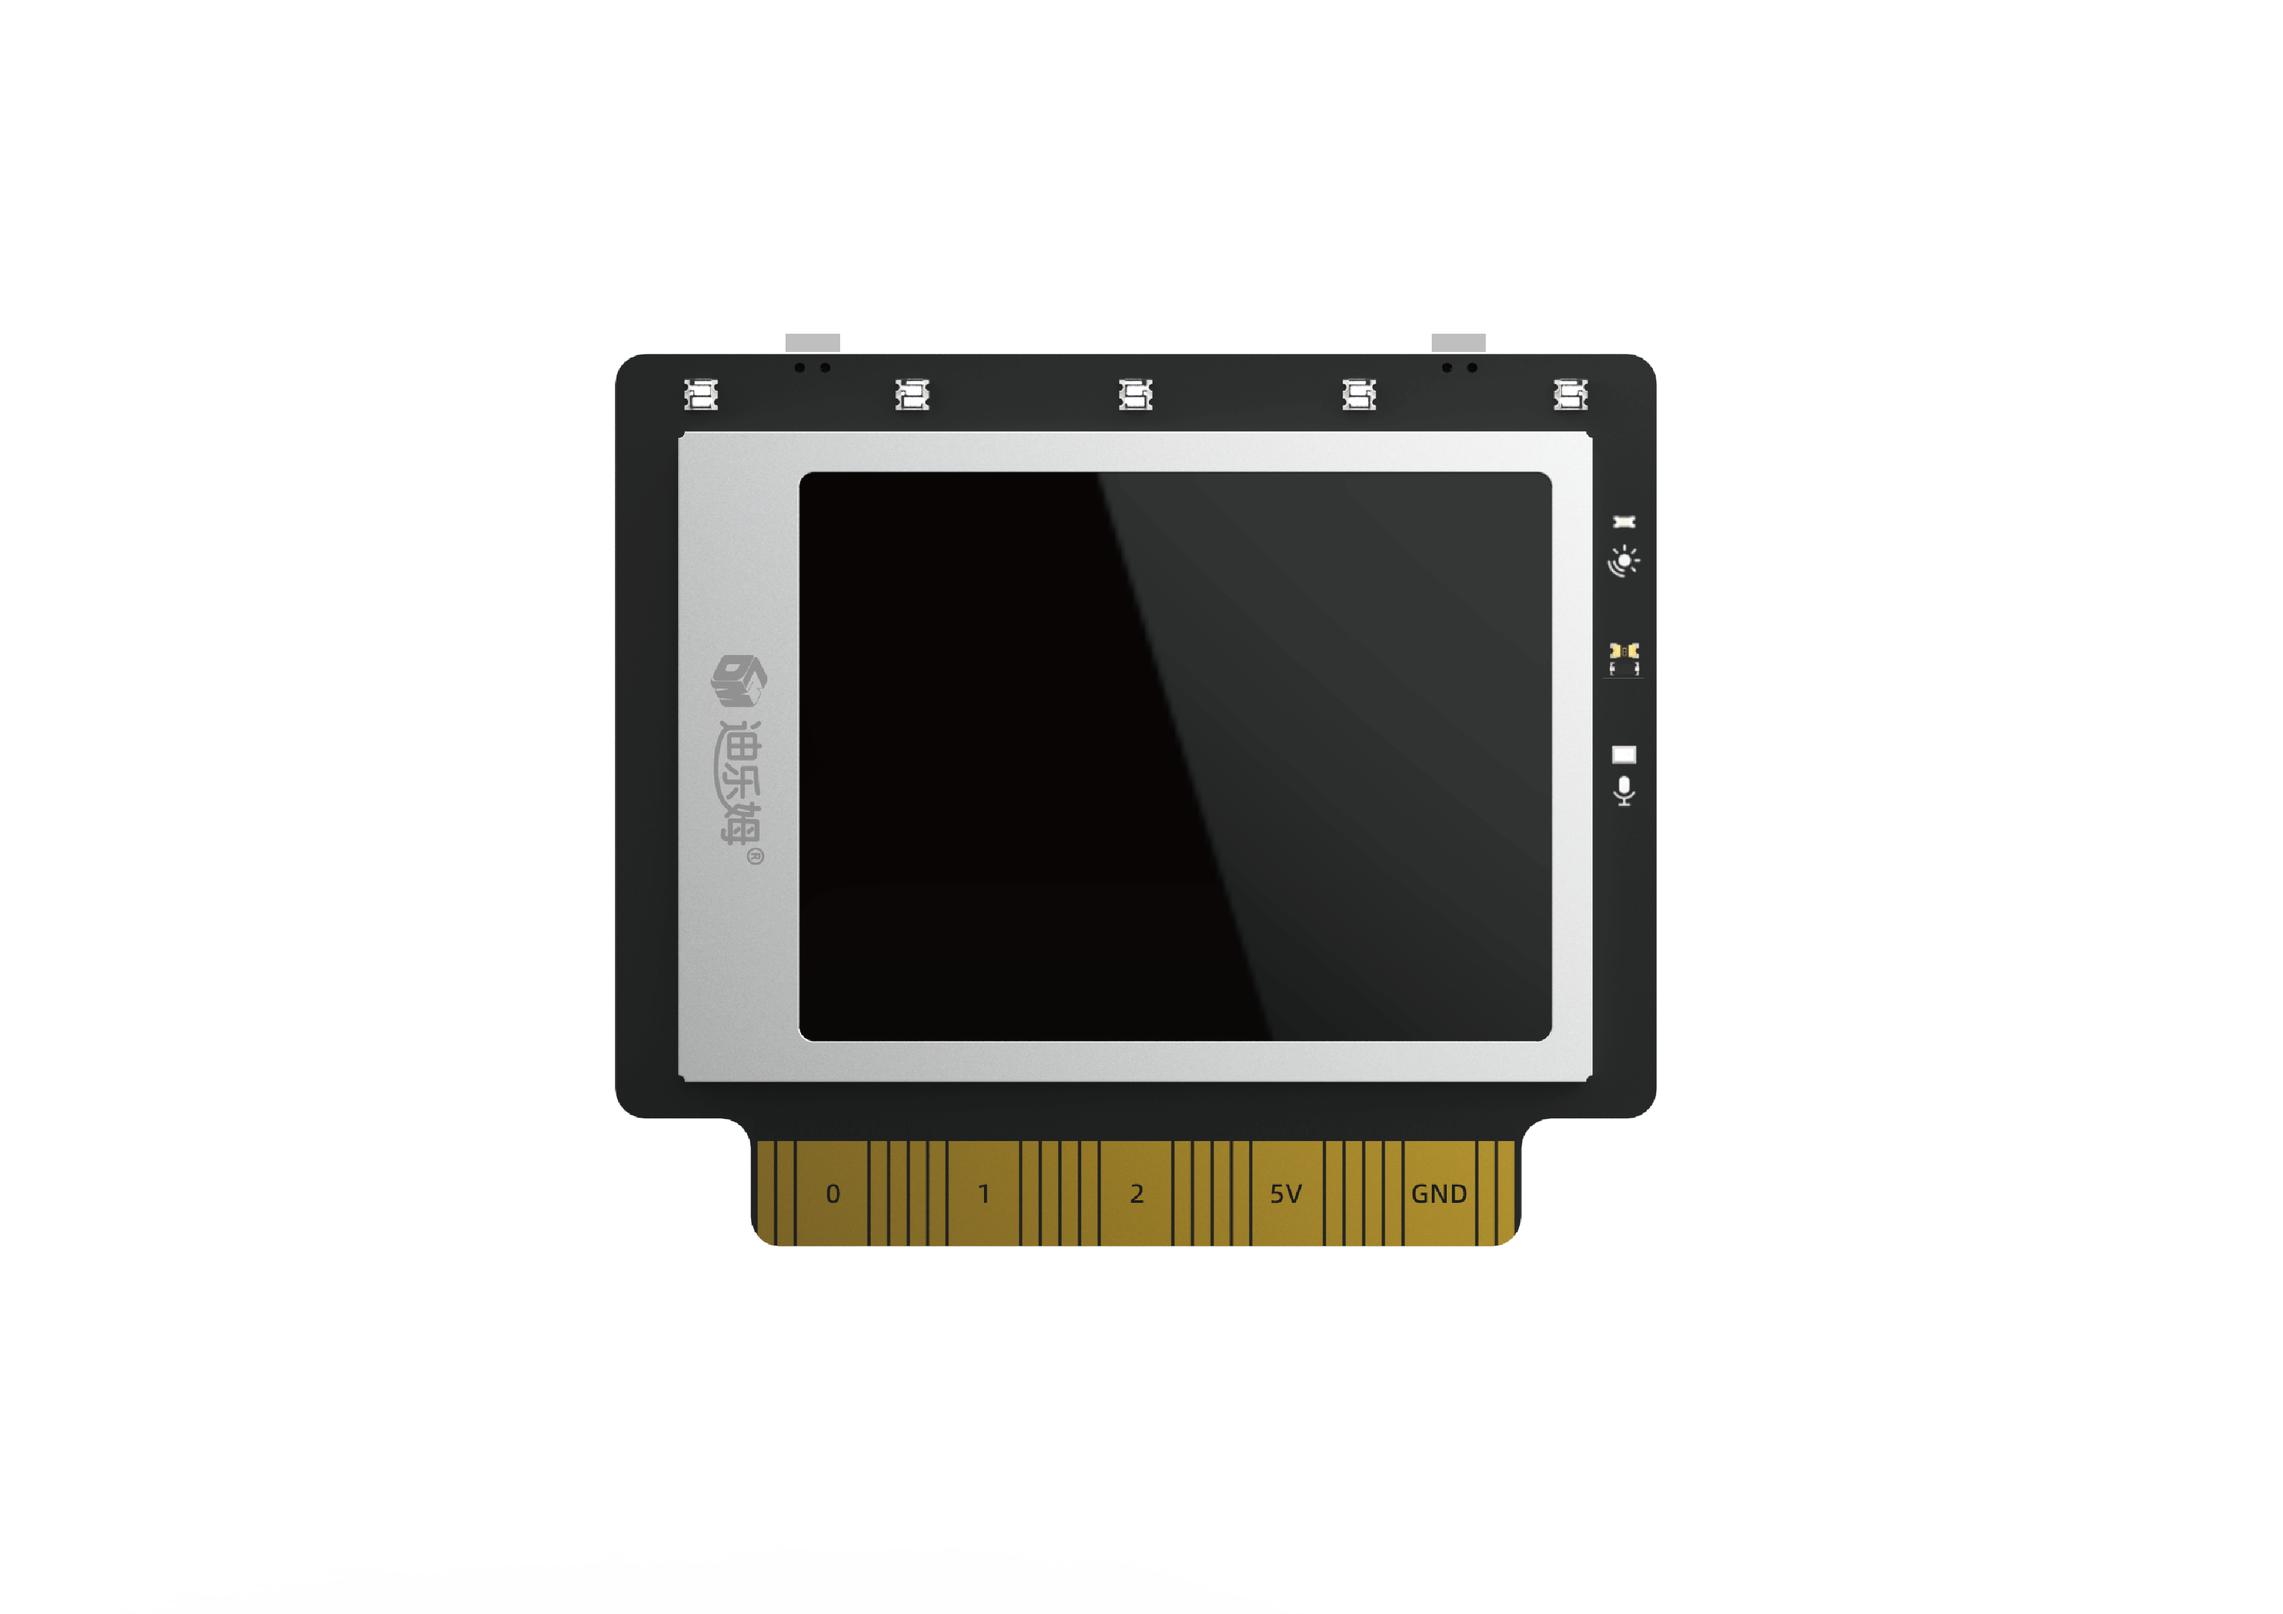
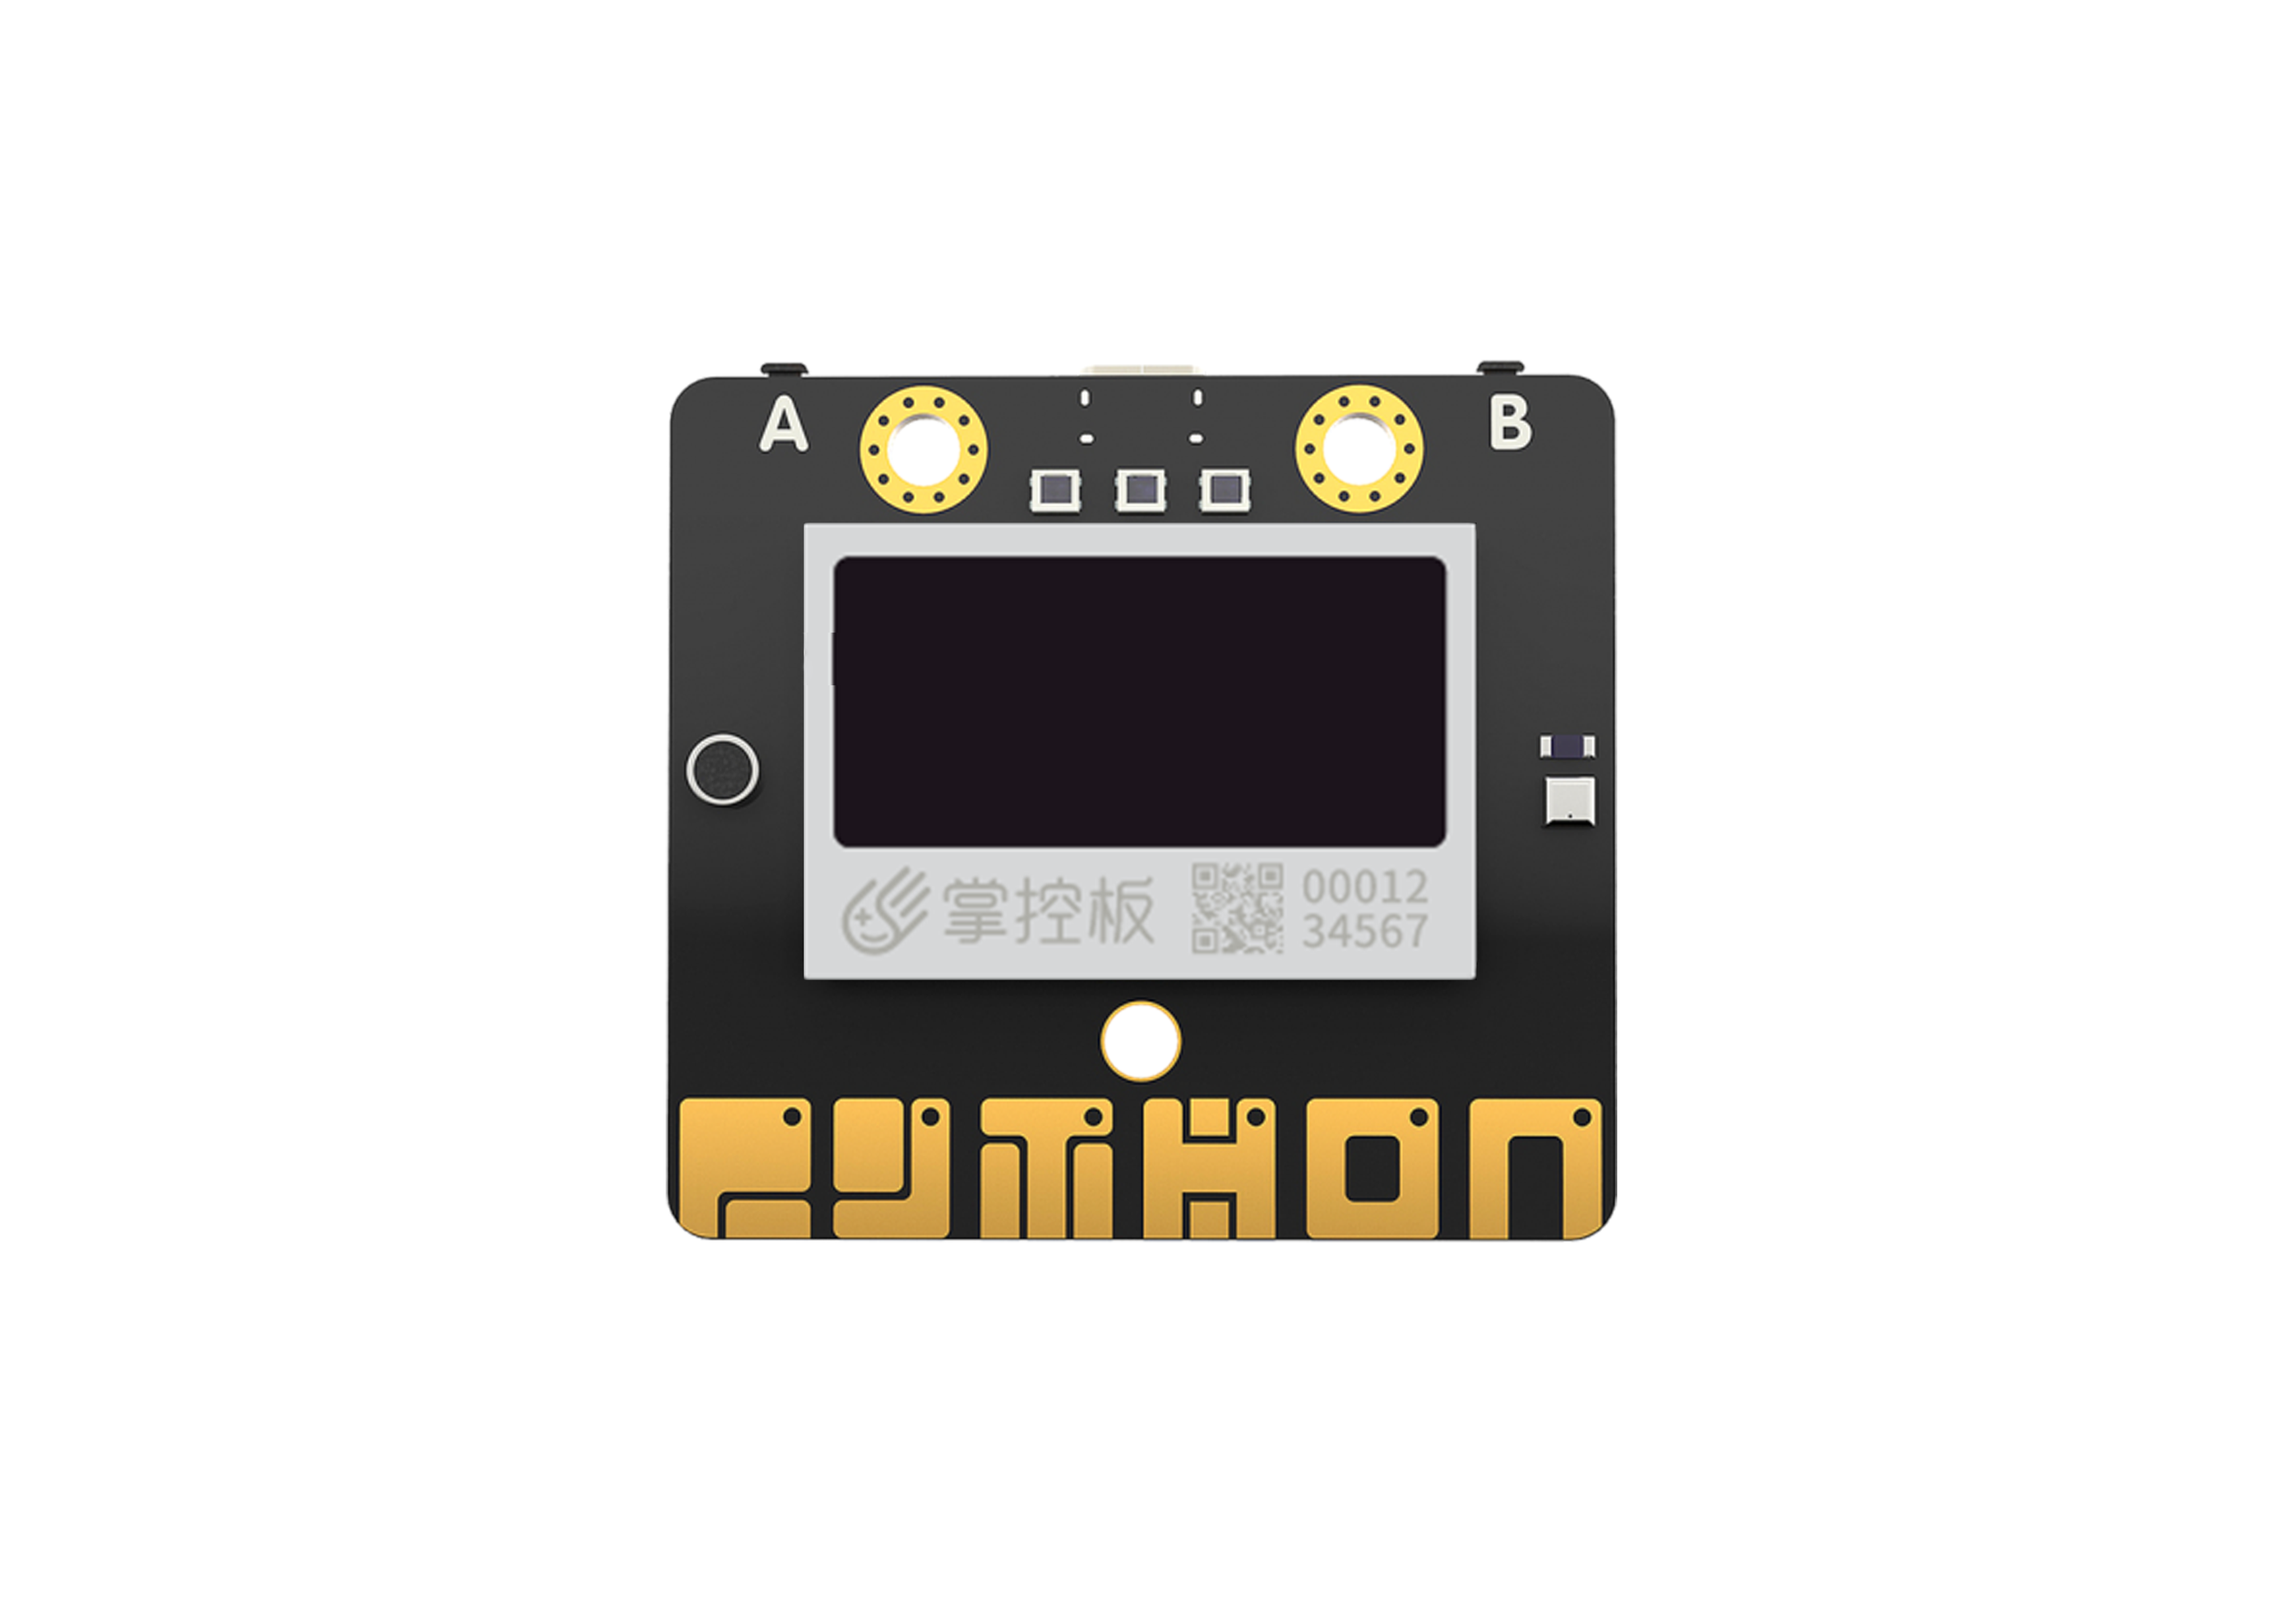
Change device info.

Changed region(s): [[0.2486, 0.1863, 0.7457, 0.7762]]

diff --git a/src/lib/libraries/devices/index.jsx b/src/lib/libraries/devices/index.jsx
@@ -84,13 +84,7 @@ const deviceData = [
         learnMore: 'https://store.arduino.cc/usa/arduino-nano',
         type: DeviceType.arduino,
         iconURL: dileban,
-        description: (
-            <FormattedMessage
-                defaultMessage="The Arduino Nano is a classic small board to build your projects with."
-                description="Description for the Arduino Nano device"
-                id="gui.device.arduinoNano.description"
-            />
-        ),
+        description: "Arduino Nano 主控板控制的设备",
         featured: true,
         disabled: false,
         bluetoothRequired: false,
@@ -115,19 +109,13 @@ const deviceData = [
         helpLink: 'https://store.arduino.cc/usa/arduino-nano'
     },
     {
-        name: '智趣板（尽情期待）',
+        name: '智趣板',
         deviceId: 'zhiquban',
         manufactor: 'arduino.cc',
         learnMore: 'https://store.arduino.cc/usa/arduino-nano',
         type: DeviceType.arduino,
         iconURL: zhiquban,
-        description: (
-            <FormattedMessage
-                defaultMessage="The Arduino Nano is a classic small board to build your projects with."
-                description="Description for the Arduino Nano device"
-                id="gui.device.arduinoNano.description"
-            />
-        ),
+        description:"基于 ESP32 的多功能智慧主控",
         featured: true,
         disabled: true,
         bluetoothRequired: false,
@@ -152,19 +140,13 @@ const deviceData = [
         helpLink: 'https://store.arduino.cc/usa/arduino-nano'
     },
     {
-        name: '掌控板（尽情期待）',
+        name: '掌控板',
         deviceId: 'zhangkongban',
         manufactor: 'arduino.cc',
         learnMore: 'https://store.arduino.cc/usa/arduino-nano',
         type: DeviceType.arduino,
         iconURL: zhangkongban,
-        description: (
-            <FormattedMessage
-                defaultMessage="The Arduino Nano is a classic small board to build your projects with."
-                description="Description for the Arduino Nano device"
-                id="gui.device.arduinoNano.description"
-            />
-        ),
+        description: "基于ESP32的主控板",
         featured: true,
         disabled: true,
         bluetoothRequired: false,
@@ -212,13 +194,7 @@ const deviceData = [
         useAutoScan: false,
         connectionIconURL: arduinoUnoConnectionIconURLL,
         connectionSmallIconURL: arduinoUnoConnectionSmallIconURL,
-        connectingMessage: (
-            <FormattedMessage
-                defaultMessage="Connecting"
-                description="Message to help people connect to their device."
-                id="gui.device.arduinoUno.connectingMessage"
-            />
-        ),
+        connectingMessage: "Arduino UNO 主控板控制的设备",
         baseToolBoxXml: arduinoBaseToolBox,
         programMode: ['realtime', 'upload'],
         programLanguage: ['block', 'c', 'cpp'],
@@ -232,13 +208,7 @@ const deviceData = [
         learnMore: 'https://microbit.org/',
         type: DeviceType.microbit,
         iconURL: microbitIconURL,
-        description: (
-            <FormattedMessage
-                defaultMessage="The pocket-sized computer transforming digital skills learning."
-                description="Description for the micro:bit device"
-                id="gui.device.microbit.description"
-            />
-        ),
+        description: "把作品链接到实体世界",
         featured: true,
         disabled: true,
         bluetoothRequired: false,

diff --git a/src/css/z-index.css b/src/css/z-index.css
@@ -16,7 +16,7 @@ $z-index-card: 480;
 $z-index-alerts: 490;
 $z-index-menu-bar: 491; /* menu-bar should go over monitors, alerts and tutorials */
 $z-index-loader: 500;
-$z-index-modal: 510;
+$z-index-modal: 1050;
 
 $z-index-drag-layer: 1000;
 /* Block drag z-index: 1000; default 50 is overriden in blocks.css */
